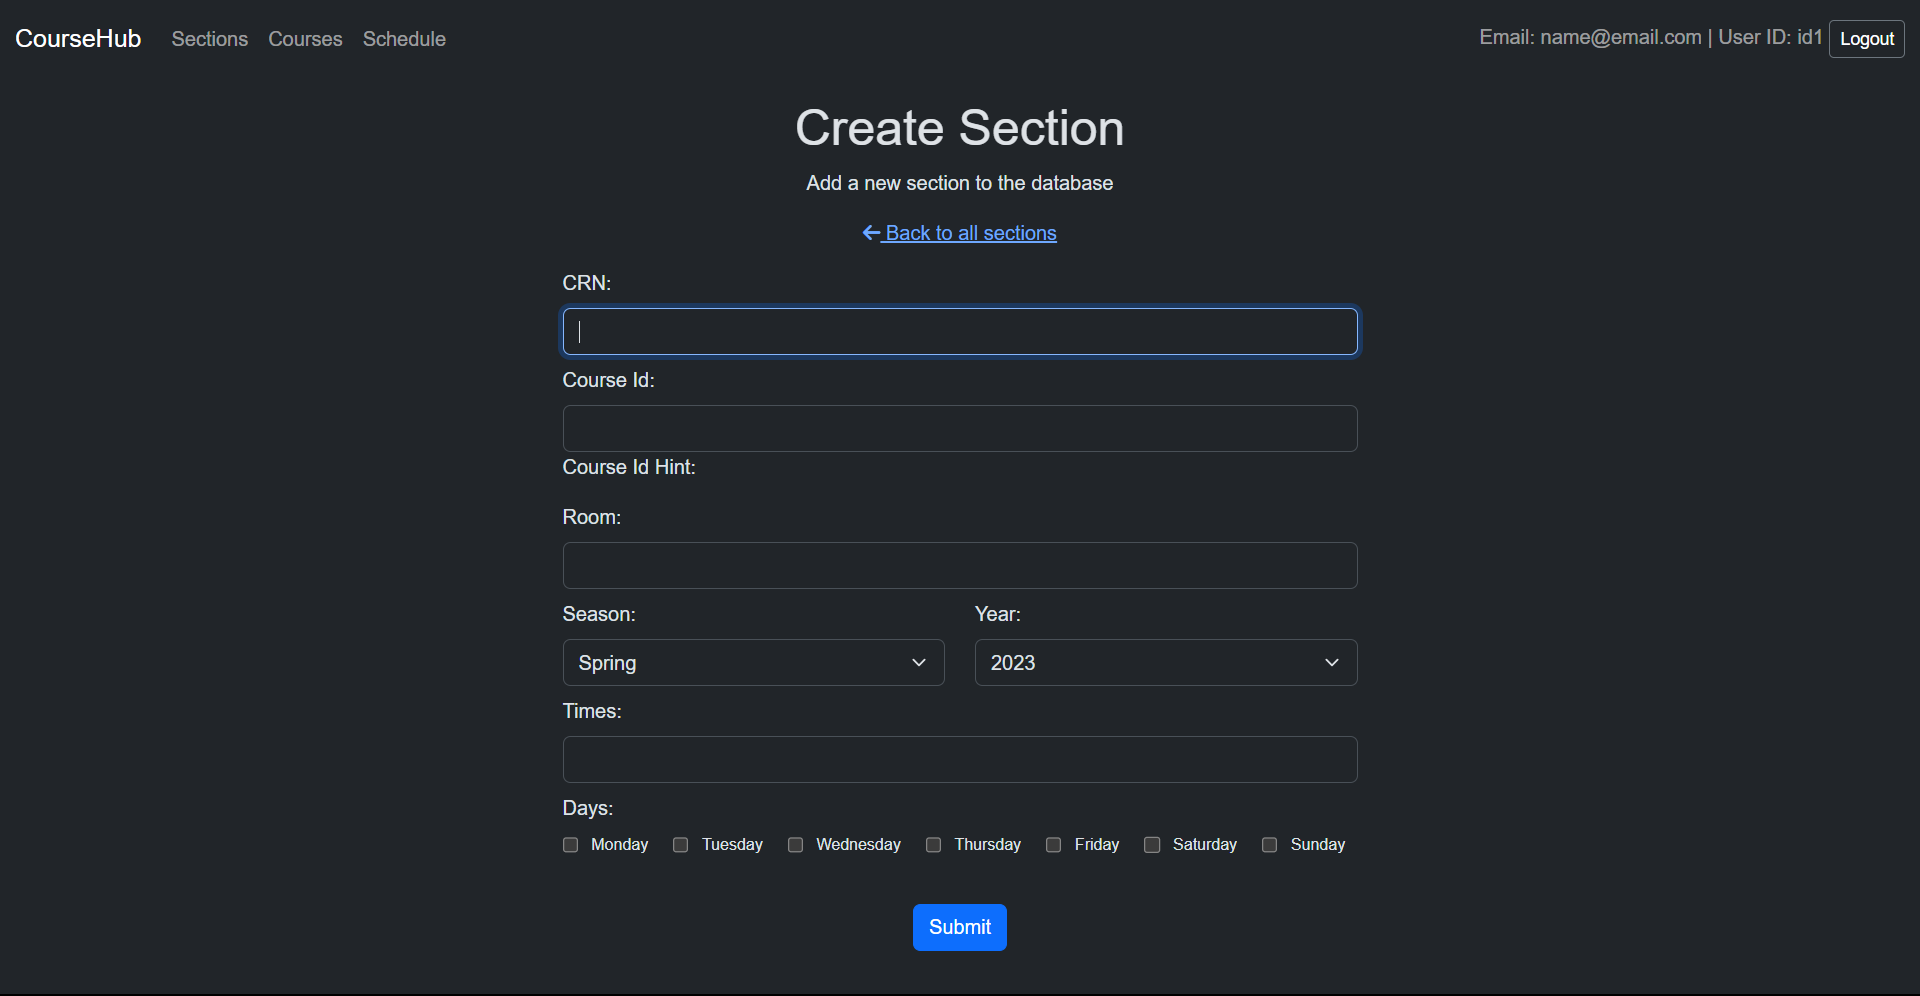
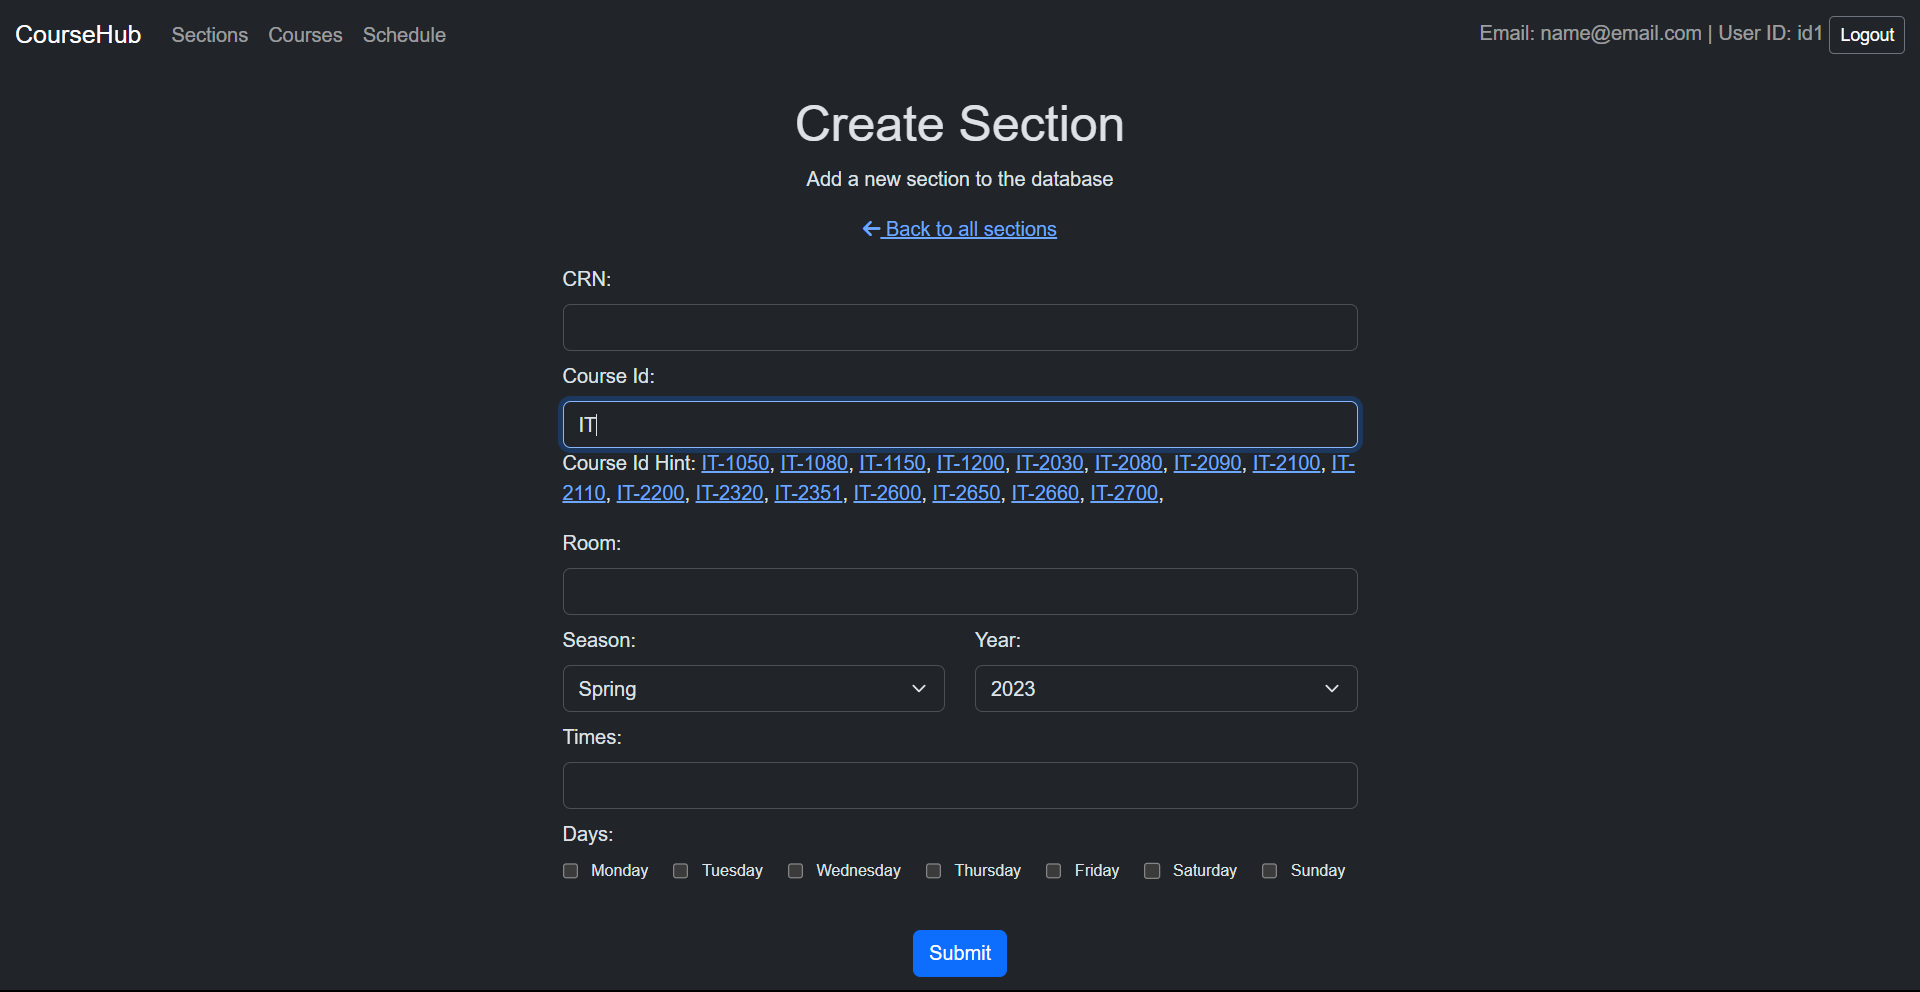
new add section screenshot

diff --git a/Lab14/README.md b/Lab14/README.md
@@ -78,7 +78,7 @@ CourseHub is designed for managing educational courses, classes, and sections. I
   <img src="./images/sections.png" alt="sections" style="max-width: 50%; height: auto;"><br>
   - As the user types in the `course_id` input, a hint appears showing matching course IDs from the courses table, implemented via JavaScript and AJAX. <br>
 
-  <img src="./images/sections.png" alt="sections" style="max-width: 50%; height: auto;"><br>
+  <img src="./images/addsection.png" alt="sections" style="max-width: 50%; height: auto;"><br>
   - Clicking on a hint auto-fills the `course_id`. If no course exists, a link to `addcourse.php` is provided, passing the current input as a convenience.
 - **Courses and Sections Management**:
   - Both courses and sections can be sorted by various attributes.
